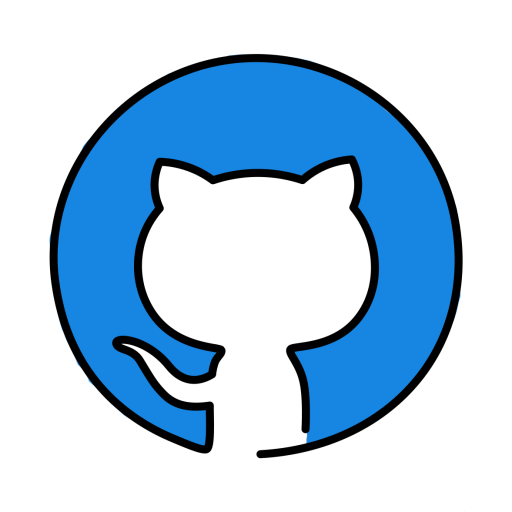
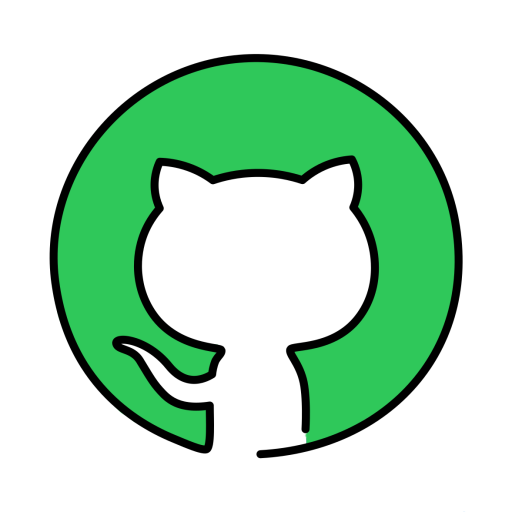
Update 1.3
Finished content of pages
Organized CSS
Removed unneeded assets
Added animated social logo

Changed region(s): [[0.0938, 0.0938, 0.9062, 0.875]]

diff --git a/index.html b/index.html
@@ -33,7 +33,9 @@ $(window).load(function() {
   
         <h2>Color Spectrum</h2>
         <h3>The color spectrum is made up of all visible colors (Red, Orange, Yellow, Green, Blue, Indigo, Purple). On the electromagnetic spectrum visible light falls between 380nm to 750nm. The color spectrum is created from white light which is the a combination of all colors which is why when you break white light up you get ROYGBIV.</h3>
-        <img src="images/colorwheel640.png" width="400px" height="auto">
+                
+        <img class="right" src="images/colorwheel640.png" width="400px" height="auto">
+                
         <h2>Color</h2>
         <h3>Color is the characteristic of human visual perception described through color categories, with names such as red, yellow, purple, or blue. This perception of color derives from the stimulation of cone cells in the human eye by electromagnetic radiation in the spectrum of light. Color categories and physical specifications of color are associated with objects through the wavelength of the light that is reflected from them. This reflection is governed by the object's physical properties such as light absorption, emission spectra, etc. </h3>
         <h3>So why are somethings blue and other red? Well that is because as all colors hit an object certain rays of light are absorbed causing them to not be visible. The color that reflects is what we see. What about white and black? For use to see white all colors must be reflected and for use to see black all colors must be absorbed.</h3>
@@ -47,12 +49,24 @@ $(window).load(function() {
                 
             </div>
             </div>
+            
             <div class="Hue2body">
             <div class="Hue2">
             <h1>Hexadecimal</h1>
             <h2>Information</h2>
-            <h3>In mathematics and computing, hexadecimal (also base 16, or hex) is a positional numeral system with a radix, or base, of 16. It uses sixteen distinct symbols, most often the symbols 0–9 to represent values zero to nine, and A, B, C, D, E, F (or alternatively a, b, c, d, e, f) to represent values ten to fifteen.</h3>
-            <h3>Hexadecimal numerals are widely used by computer system designers and programmers. As each hexadecimal digit represents four binary digits (bits), it allows a more human-friendly representation of binary-coded values. One hexadecimal digit represents a nibble (4 bits), which is half of an octet or byte (8 bits). For example, a single byte can have values ranging from 00000000 to 11111111 in binary form, but this may be more conveniently represented as 00 to FF in hexadecimal.</h3>
+            <h3>When it comes to using CSS to stylize websites it is impractical to have someone give a name to every color that can be used. This is why hexadecimal code was created. With it each color has a name that the computer can read and people don't have to come up with a name for every color you can program with.</h3>
+            
+            <h3>A computer screen displays a color by combining red light, green light and blue light. 100% red, 100% green and 100% blue produces white. Zero red, zero green and zero blue produces black. In fact, equal levels of red, green and blue, whatever that level may be, will always produce a shade of gray.</h3>
+            
+            <img class="right" src="images/ColorAdobe.PNG" width="400px" height="auto">
+            
+            <h3>The six digits of a hex code are in fact three two-digit numbers, each representing the level of red, green and blue. So #000100 is zero red, the darkest possible shade of green without being totally black, and zero blue. #010101, because the three values are all equal, is the darkest possible shade of grey, and #020202 is the second darkest. And of course #000000 is black. But what about #FFFFFF for white – what do the letters mean?</h3>
+            
+            <h3>There are 256 possible shades each of red, green and blue (0 through 255). If we wanted to produce white (the brightest levels of all three colors combined), we’d need to write #255255255. That’s nine digits long.</h3>
+
+            <h3>Hex codes use the hexadecimal number system to make it possible for 256 numbers to be represented with only two digits. Instead of counting 0 through 10 like our regular decimal number system, it counts 0, 1, 2, 3, 4, 5, 6, 7, 8, 9, A, B, C, D, E, F and then 10, followed by 11, 12, 13, 14, 15, 16, 17, 18, 19, 1A, 1B, 1C, 1D, 1E, 1F and then 20. Make sense?</h3>
+
+            <h3>This means that 256 numbers can be represented using only two digits, instead of the 100 that are possible with our decimal number system (0 through 99). So the highest possible two digit number is not 99 but FF (equal to 255). This is why white is #FFFFFF, pure red is #FF0000, pure green #00FF00 and pure blue #0000FF.</h3>
             </div>
             </div>
             <div class="Hue3">
@@ -83,7 +97,7 @@ $(window).load(function() {
         <div class="Huefooter">
         <h3>© Copyright 2017. A World of Hues</h3>
         <div class="SocialLinks">
-        <a href="https://github.com/MasonPorter266/ColorHues" target="_blank"><img src="images/github-brand-logo-3c9d78d3a4407227-512x512.png" width="60px" height="auto"></a>
+        <a href="https://github.com/MasonPorter266/ColorHues" target="_blank"><img src="images/github-brand-logo.png" width="60px" height="auto" onmouseover="this.src='images/GithubHover.png'" onmouseout="this.src='images/github-brand-logo.png'"></a>
         </div>
         </div>
         

diff --git a/styles.css b/styles.css
@@ -17,6 +17,13 @@ body, ul, li, h1, h2, h3, h4, h5, h6{
 	background: url('images/BlankColorLoading.gif') 50% 50% no-repeat rgb(249,249,249);
 }
 
+.right {
+    float: right;
+    width: 40%;
+    height: auto;
+    padding-left: 20px;
+}
+
 .Hueheader {
     height: 100vh;
     background-color: transparent;
@@ -40,6 +47,7 @@ body, ul, li, h1, h2, h3, h4, h5, h6{
     background-position: center;
 }
 
+/* ------------------Header------------------ */
 .Hueheader h1 {
     text-align: center;
     font-size: 135px;
@@ -55,6 +63,7 @@ body, ul, li, h1, h2, h3, h4, h5, h6{
     font-family: 'Indie Flower', cursive;
 }
 
+/* ------------------Color Body------------------ */
 .Huebody {
     background-color: white;
 }
@@ -87,17 +96,13 @@ body, ul, li, h1, h2, h3, h4, h5, h6{
     padding-bottom: 15px;
 }
 
-.Hue1Section2 {
-    width: 40%;
-    float: right;
-}
-
+/* ------------------Hexadecimal Body------------------ */
 .Hue2body {
     background-color: #66aaaa;
 }
 
 .Hue2 {
-    height: 110vh;
+    height: auto;
     background-color: #66aaaa;
     margin-left: 5%;
     margin-right: 5%;
@@ -120,7 +125,7 @@ body, ul, li, h1, h2, h3, h4, h5, h6{
     padding-bottom: 15px;
 }
 
-
+/* ------------------Credits------------------ */
 .Hue3 {
     height: auto;
     background-color: white;
@@ -152,6 +157,7 @@ body, ul, li, h1, h2, h3, h4, h5, h6{
     font-family: 'Indie Flower', cursive;
 }
 
+/* ------------------Footer------------------ */
 .Huefooter {
     height: auto;
     background-color: white;
@@ -172,6 +178,7 @@ body, ul, li, h1, h2, h3, h4, h5, h6{
     padding-top: 2px;
 }
 
+/* ------------------Social Links------------------ */
 .SocialLinks {
     height: auto;
     text-align: center;
